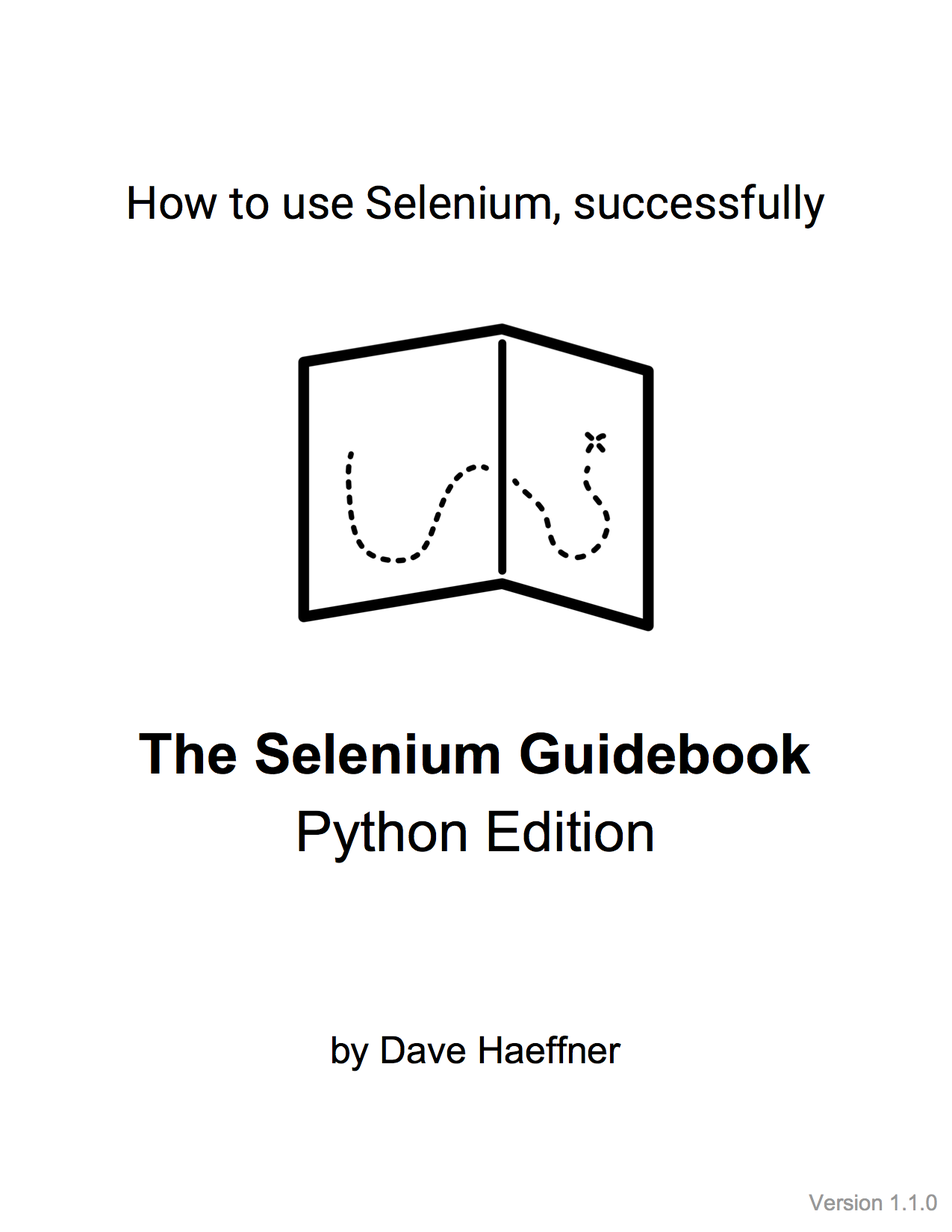
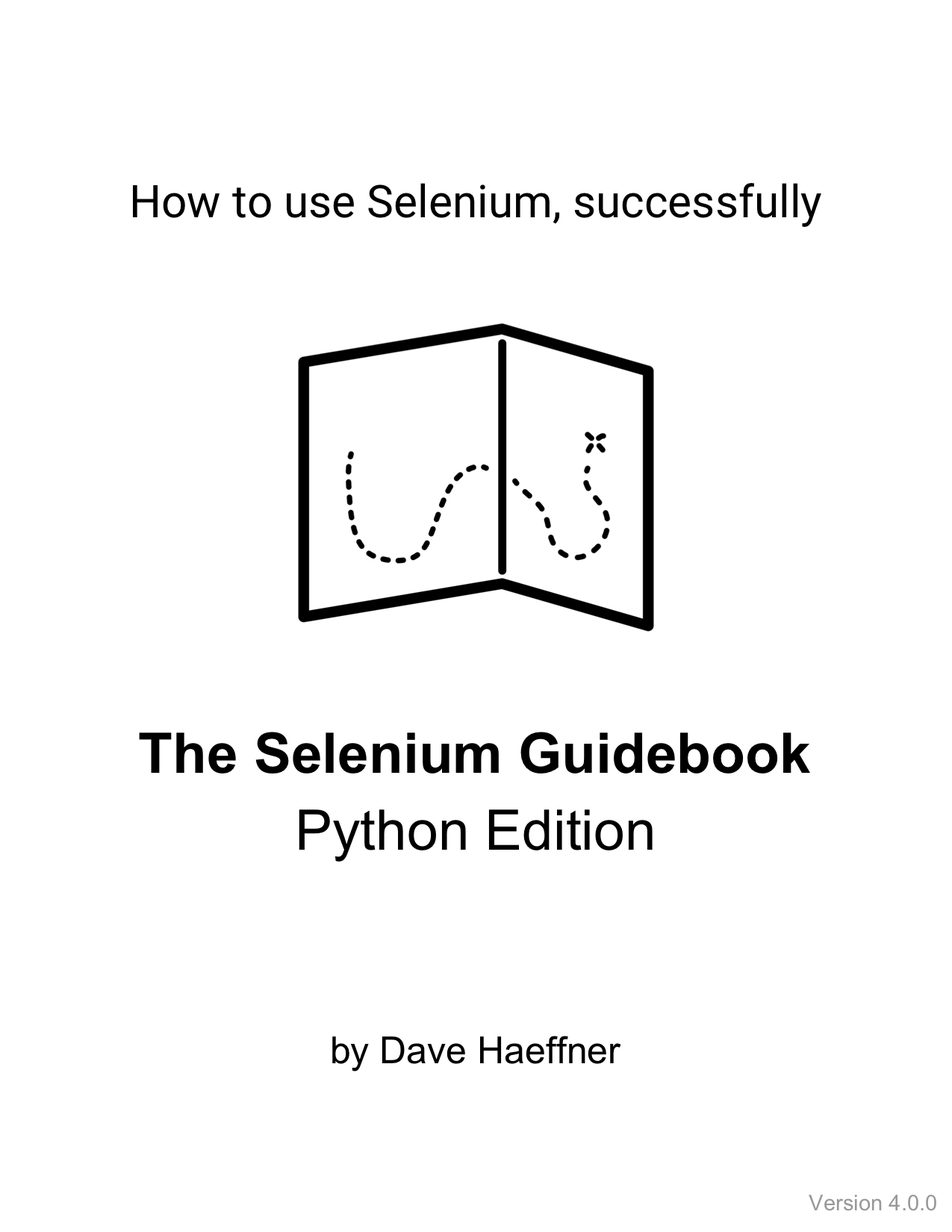
Updated front-matter in the Python book, along with the boilerplate chapters

diff --git a/book/python/content/chapters/17.md b/book/python/content/chapters/17.md
@@ -6,61 +6,53 @@ Here is a list breaking down a majority of the Selenium resources available, and
 
 ## Documentation & Tips
 
-+ [Selenium HQ](http://se.tips/se-info-1)
++ [Selenium HQ](http://bit.ly/se-info-1)
 
 This is the official Selenium project documentation site. It's a bit dated, but there is loads of helpful information here. You just have to get the hang of how the navigate site to find what you need.
 
-+ [The Selenium Wiki](http://se.tips/se-info-29)
++ [The Selenium Wiki](http://bit.ly/se-info-29)
 
 This is where all the good stuff is -- mainly, documentation about the various language bindings and browser drivers. If you're not already familiar with it, take a look.
 
-+ [Elemental Selenium Archives](http://se.tips/se-info-3)
++ [Elemental Selenium Archives](http://bit.ly/se-info-3)
 
-Every tip I've written is freely available on the tips archive page. There are over 70 different Selenium problems and solutions covered.
+Every tip I've written is freely available on the tips archive page. There are over 70 different Selenium problems and solutions covered. They're in Ruby, but the code has been open-sourced with a fair number of them being ported into other programming languages. You can find the code for them [here](https://github.com/tourdedave/elemental-selenium-tips).
 
 ## Blogs
 
-+ [The official Selenium blog](http://se.tips/se-info-4)
++ [The official Selenium blog](http://bit.ly/se-info-4)
 
 This is where news of the Selenium project gets announced, and there's also the occasional round-up of what's going on in the tech space (as it relates to testing). Definitely worth a look.
 
-+ [A list of "all" Selenium WebDriver blogs](http://se.tips/se-info-5)
++ [A list of "all" Selenium WebDriver blogs](http://bit.ly/se-info-5)
 
 At some point, someone rounded up a large list of blogs from Selenium practitioners and committers. It's a pretty good list.
 
 ## Other Books
 
-+ [Selenium 2 Testing Tools](http://se.tips/se-info-17)
++ [Selenium Testing Tools Cookbook](http://bit.ly/se-info-18)
 
-This book is by [David Burns](https://twitter.com/AutomatedTester) and it is a solid resource. It outlines how to use Selenium, top-to-bottom. It's definitely worth having on your shelf.
+This book outlines some great ways to leverage Selenium. It's clear that Gundecha has a very pragmatic approach that will yield great results.
 
-+ [Selenium Testing Tools Cookbook](http://se.tips/se-info-18)
-
-This is another good book outlining some great ways to leverage Selenium. While I haven't had a chance to finish reading it, it's clear that Gundecha has a very pragmatic approach that will yield great results.
-
-+ [Selenium Design Patterns and Best Practices](http://se.tips/se-info-21)
++ [Selenium Design Patterns and Best Practices](http://bit.ly/se-info-21)
 
 Dima Kovalenko's book covers useful tactics and strategies for successful test automation with Selenium. I was a technical reviewer for the book and think it's a tremendous resource. The book covers Ruby, but he has ported the examples to Java. You can find them [here](https://github.com/dimacus/SeleniumBestPracticesBook).
 
 ## Meetups
 
-+ [The Selenium Hangout](http://se.tips/se-info-12)
-
-This is an entirely online meetup that is run by me and [David Burns](https://twitter.com/AutomatedTester) where we talk about the latest in the Selenium community (e.g., upcoming conferences, the status of Selenium 3, the W3C spec, etc.) and answer questions from the community. Videos are recorded and made available (along with notes) on [the official Selenium blog](http://seleniumhq.wordpress.com/).
-
-+ [All Selenium Meetups listed on Meetup.com](http://se.tips/se-info-13)
++ [All Selenium Meetups listed on Meetup.com](http://bit.ly/se-info-13)
 
 A listing of all in-person Selenium Meetups are available on Meetup.com. If you're near a major city, odds are there's one waiting for you.
 
-+ [How to start your own Selenium Meetup](http://se.tips/se-info-14)
++ [How to start your own Selenium Meetup](https://saucelabs.com/blog/so-you-want-to-start-a-selenium-meetup-group-now-what)
 
 If there's not a Selenium Meetup near you, start one! Sauce Labs has a great write up on how to do it.
 
 ## Conferences
 
-+ [Selenium Conf](http://seleniumconf.co.uk/)
++ [Selenium Conf](http://seleniumconf.com/)
 
-This is the official annual conference of the Selenium project where practitioners and committers gather and share their latest knowledge and experiences with testing. The conference location changes every year (e.g., it's been in San Francisco, London, Boston, Bangalore, and soon -- Portland).
+This is the official conference of the Selenium project where practitioners and committers gather and share their latest knowledge and experiences with testing. There are two conferences a year, with the location changing every time (e.g., it's been in San Francisco, London, Boston, Bangalore, Portland, Austin, Berlin, Chicago, and Tokyo).
 
 + [Selenium Camp](http://seleniumcamp.com/)
 
@@ -72,26 +64,23 @@ A helpful website that lists all of the testing conferences out there.
 
 ## Videos
 
-+ [Selenium Conference Talks](http://se.tips/se-info-15)
++ [Selenium Conference Talks](http://bit.ly/se-info-15)
 
 All of the talks from The Selenium Conference are recorded and made freely available online. This is a tremendous resource.
 
-+ [Selenium Meetup Talks](http://se.tips/se-info-16)
++ [Selenium Meetup Talks](http://bit.ly/se-info-16)
 
 Some of the Selenium Meetups make it a point to record their talks and publish them afterwards. Here are some of them. They are a great way to see what other people are doing and pick up some new tips.
-
-+ [Selenium Hangout](http://www.youtube.com/playlist?list=PLjmE7QwH0u6dXyfzlZ10f2Yz6d3mE9QEi)
-
-All of the Selenium Hangout Meetups are recorded and made available. A lot of great stuff is discussed in them.
 
 ## Mailing Lists
 
 + [Selenium Developers List](https://groups.google.com/forum/#!forum/selenium-developers)
 
-This is where developers discuss changes to the Selenium project.
+This is where developers discuss changes to the Selenium project, both technically and administratively.
 
 + [Selenium Users Google Group](https://groups.google.com/forum/?fromgroups#!forum/selenium-users)
-+ [Selenium LinkedIn Users Group](http://www.linkedin.com/groups/Selenium-Test-Automation-User-Group-961927)
++ [Selenium LinkedIn Users Group](https://www.linkedin.com/groups/961927/)
+
 The signal to noise ratio in these groups can be challenging at times. But you can occasionally find some answers to your questions.
 
 ## Forums
@@ -106,68 +95,16 @@ These are the usual forums where you can go looking for answers to questions you
 
 + [Selenium Issue Tracker](https://github.com/seleniumhq/selenium/issues)
 
-If you're running into a specific and repeatable issue that just doesn't make sense, you may have found a bug in Selenium. You'll want to check the Selenium Issue Tracker to see if it has already been reported. If not, then create a new issue. But be sure to read [this post](http://jimevansmusic.blogspot.com/2012/12/not-providing-html-page-is-bogus.html) before you do (so you can be sure that you have provided enough information).
+If you're running into a specific and repeatable issue that just doesn't make sense, you may have found a bug in Selenium. You'll want to check the Selenium Issue Tracker to see if it has already been reported. If not, then create a new issue -- assuming you're able to provide a short and self-contained example that reproduces the problem.
 
-## Chatting With the Selenium Community on IRC
+This is known as [SSCCE](http://sscce.org) (a Short, Self Contained, Correct (Compilable), Example). For a tongue-in-cheek take on the topic, see [this post](http://jimevansmusic.blogspot.com/2012/12/not-providing-html-page-is-bogus.html).
 
-The Selenium IRC Chat Channel is arguably the best way to connect with the Selenium community and get questions answered. This is where committers and practitioners hang out day-in and day-out.
+## Chatting With the Selenium Community
 
-### Brief Intro To IRC
+The Selenium Chat Channel is arguably the best way to connect with the Selenium community and get questions answered. This is where committers and practitioners hang out day-in and day-out.
 
-IRC (short for Internet Relay Chat) is a protocol that freely enables live chatting (both in groups and person to person) and file sharing. It's been around for a while (circa 1988) and is the preferred mode of communication among certain tech circles.
+You can connect either through Slack or IRC. Details on how to connect are available [here](http://elementalselenium.com/tips/20-irc-chat).
 
-Within the realm of IRC there are numerous networks you can connect to. Each one containing people and bots logged in and joined to one or more chat rooms talking, sharing files, etc.
+Once connected, feel free to say hello and introduce yourself. But more importantly, ask your question. If it looks like no one is chatting, ask it anyway. Someone will see it and eventually respond. They always do. In order to get your answer, you'll probably need to hang around for a bit. But the benefit of being a fly on the wall is that you gain insight into other problems people face, possible solutions, and the current state of the Selenium project and its various pieces.
 
-One of the beautiful things about IRC is that there is no registration required to join the party. You just need to download a client that handles the IRC protocol (there's at least one available for every platform), point it at a network, and pick a unique nickname for yourself on that network.
 
-Once you're on you can join a chat room and start jib-jabbing.
-
-### How To Get Connected
-
-<u>Step 1: Get An IRC Chat Client</u>
-
-First thing's first, get a chat client that supports IRC.
-
-You may already have one and not even know. For example, [Adium](https://adium.im/) (for OSX) supports a staggering number of chat protocols. If you already have it (or something like it) then use that to connect. If you don't, then you'll need to download one that supports it (or one that is built specifically for IRC).
-
-Here are some worthwhile IRC chat clients (broken out by platform -- and are free unless otherwise noted).
-
-__OSX__
-
-+ [LimeChat](http://limechat.net/mac/)
-+ [Textual](http://www.codeux.com/textual/) ($5.99 to buy)
-
-__Windows__
-
-+ [mIRC](http://www.mirc.com/?/) (free for 30 days, $20 for a single-user license)
-
-__Linux__
-
-+ [Irssi](http://www.irssi.org/)
-
-__Web-only__
-
-+ [Webchat](http://webchat.freenode.net/)
-+ [IRCCloud](https://www.irccloud.com/) (free with paid tier as well, Android and iOS apps available as well)
-
-<u>Step 2: Connect To The Proper Server</u>
-
-The Selenium chat channel lives on the Freenode network. To connect to it directly you would use `irc.freenode.net`.
-
-Before connecting you should be able to set a nickname and perhaps even specify which channel you would like to connect to after connecting (e.g., `#selenium`). If you don't see these bits, don't sweat it. Connect and proceed to the next step.
-
-__NOTE: If you're using Webchat, it will automatically connect you to Freenode.__
-
-<u>Step 3: Join The Chat Channel</u>
-
-In IRC parlance channels are prepended with a `#` and are lower-case. So the Selenium channel is `#selenium`.
-
-If you were able to configure your chat client to join the channel for you, then proceed to the next step. Otherwise, you'll need to issue a command in the status window. There are a series of commands you can issue in IRC. They are all prepended with a `/`. To join a chat channel type `/join #selenium` and press `Enter`.
-
-This will open a new chat window to the Selenium chat channel. Woohoo!
-
-<u>Step 4: Talk And Hangout</u>
-
-Feel free to say hello and introduce yourself. But more importantly, ask your question. If it looks like no one is chatting, ask it anyway. Someone will see it and eventually respond. They always do.
-
-In order to get your answer, you'll probably need to hang around for a bit. But the benefit of being a fly on the wall is that you gain insight into other problems people face, possible solutions, and the current state of the Selenium project and its various pieces.

diff --git a/book/python/content/chapters/05.md b/book/python/content/chapters/05.md
@@ -14,24 +14,26 @@ Each test needs to be concise (e.g., testing a single feature rather than multip
 
 ## Grouping Tests
 
-As your test suite grows you will have numerous test files. Each one containing a grouping of tests that exercise similar functionality. These test files should be grouped together in a simple directory structure as the groupings become obvious. If you want to create a test run of disparate tests, this is something that is easy to handle when using a Test Runner (covered briefly below, and in-depth in Chapter 15).
+As your test suite grows you will have numerous test files. Each one containing a grouping of tests that exercise similar functionality. These test files should be grouped together in a simple directory structure as the groupings become obvious. If you want to create a test run of disparate tests, this is something that is easy to handle when using a Test Runner (covered briefly below, and in-depth in Chapter 16).
 
 ## Being Descriptive
 
-A test file should have a high level name that denotes what the tests within it are exercising. Each test should have an informative name (even if it is a bit verbose). Also, each test (or grouping of tests) should include some helpful metadata (e.g., Categories) which can provide additional information about the test as well as enable flexible test execution (more on that in Chapter 15). This way all or part of your test suite can be run, and the results will be informative thanks to helpful naming.
+A test file should have a high level name that denotes what the tests within it are exercising. Each test should have an informative name (even if it is a bit verbose). Also, each test (or grouping of tests) should include some helpful metadata (e.g., tags, or categories) which can provide additional information about the test as well as enable flexible test execution (more on that in Chapter 16). This way all or part of your test suite can be run, and the results will be informative thanks to helpful naming.
 
-This enables developers to run a subset of tests to exercise functionality they just modified (as part of their pre-check-in testing) while also enabling you to intelligently wire your test suite up to a Continuous Integration (CI) server for fast and dynamic feedback (more on CI servers in Chapter 16).
+This enables developers to run a subset of tests to exercise functionality they just modified while also enabling you to intelligently wire your test suite up to a Continuous Integration (CI) server for fast and dynamic feedback (more on CI servers in Chapter 17).
 
 ## Test Runners
 
-At the heart of every test harness is some kind of a test runner that does a lot of the heavy lifting (e.g., test execution, centralized configuration, test output, etc.). Rather than reinvent the wheel you can use one of the many test runners that already exist today. With it you can bolt on third party libraries to extend its functionality if there's something missing.
+At the heart of every test harness is some kind of a test runner that does a lot of the heavy lifting (e.g., test execution, centralized configuration, test output, etc.). Rather than reinvent the wheel you can use one of the many test runners that exist today. With it you can bolt on third party libraries to extend its functionality if there's something missing.
 
 ## Version Control
 
-In order to effectively collaborate with other testers and developers on your team, your test code must live in a version control system of some sort. Look to see what your development team uses and add your code to it. Otherwise, set up one of the following:
+In order to effectively collaborate with other testers and developers on your team, your test code must live in a version control system. Look to see what your development team uses and add your code to it. Otherwise, set up one of the following:
 
 + [Git](http://git-scm.com/)
 + [Mercurial](https://www.mercurial-scm.org/)
 + [Subversion](http://subversion.apache.org/)
 
 Keep in mind that your test code can live in a __separate__ repository from the code of the application you're testing. Combining them may be advantageous but if all you're doing is writing and running tests against web endpoints (which is a majority of what your Selenium tests will be doing) then leaving your test code in a separate repository is a fine way to go.
+
+

diff --git a/book/python/content/preface.md b/book/python/content/preface.md
@@ -2,15 +2,15 @@
 
 This book is not a full and comprehensive treatise that outlines every possible permutation of [Selenium](http://seleniumhq.org/) (the open-source software test automation tool for web applications). There are other books that already do this. My goal, instead, is to teach you the necessary pieces to use Selenium __successfully__ for your circumstance.
 
-What you have before you is a distilled and actionable guide culled from my consulting practice and full time positions held doing Quality Assurance over the past seven years.
+What you have before you is a distilled and actionable guide culled from my consulting practice and full time positions held doing Quality Assurance over the past ten years.
 
 My goal in writing this is to provide you with the materials I wish existed when I was starting out with automated acceptance testing. I hope it serves you well.
 
 ## What This Book Will Cover
 
-This book focuses on the latest stable version of Selenium 2 (a.k.a. Selenium WebDriver) and its use to test desktop browsers. Its predecessor, Selenium RC, will not be covered. Mobile testing with Appium will also not be covered. But you can see a series of getting started with Appium posts I've written [here](https://saucelabs.com/resources/articles/appium-bootcamp-chapter-1).
+This book focuses on the latest stable version of Selenium 4 (a.k.a. Selenium WebDriver) and its use to test desktop browsers.
 
-Record and Playback tools like Selenium IDE and Selenium Builder are great for getting started, but abysmal for growing past that point. So they will not be covered. Instead, an approach on writing well factored tests, in code, will be the primary focus of this book.
+Record and Playback tools like [Selenium IDE](https://www.seleniumhq.org/selenium-ide/) are a great option nowadays (no, really). But they will not be covered in this book. Instead, an approach of writing well factored tests, in code, is the focus of this book.
 
 ## Who This Book Is For
 
@@ -20,11 +20,11 @@ That is to say, this book is for anyone who wants to use computers for what they
 
 ## About The Examples In This Book
 
-The examples in this book are written in Python, but the strategies and patterns used are applicable regardless of your technical stack.
+The examples in this book are written in JavaScript, but the strategies and patterns used are applicable regardless of your technical stack.
 
 The tests in this book are written to exercise functionality from an open-source project I created and maintain called the-internet -- available [here on GitHub](https://github.com/tourdedave/the-internet) and viewable [here on Heroku](http://the-internet.herokuapp.com/).
 
-The test examples are written to run against [pytest](http://docs.pytest.org/en/latest/) with [pip](https://pip.pypa.io/en/stable/) managing the third-party dependencies.
+The test examples are written to run against [pytest](http://docs.pytest.org/en/latest/) with [pip3](https://pip.pypa.io/en/stable/) managing the third-party dependencies.
 
 All of the code examples from the book are available in an accompanying zip file. It contains folders for each chapter where code was written or altered. Chapters with multiple parts will have multiple sub-folders (e.g., code examples referenced in Part 2 of Chapter 9 can be found in `09/02/` in the zip file).
 

diff --git a/book/python/content/chapters/02.md b/book/python/content/chapters/02.md
@@ -15,7 +15,7 @@ This strategy works best for applications with existing functionality and does n
 
 ## What To Do With The Answers
 
-After answering these you should end up with a prioritized punch list (a.k.a., backlog) of test automation tasks that you can work off of and track progress against.
+After answering these questions you should end up with a prioritized punch list (a.k.a., backlog) of test automation tasks that you can work off of and track progress against.
 
 ### Question 1: Money/Value
 
@@ -25,7 +25,7 @@ These items will be your highest priority for automation. Start an automation ba
 
 ### Question 2: Usage Data
 
-Odds are your application offers a robust set of functionality well beyond your funnel. Your answers to this question will help highlight what it is. And if you're basing these answers on usage data (e.g., Google Analytics), then it will be broken down from highly used to lightly used.
+Odds are your application offers a robust set of functionality well beyond your funnel. Your answers to this question will help highlight what it is. And if you're basing these answers on usage data (e.g., Google Analytics, etc.), then it will be broken down from highly used to lightly used.
 
 Tack these items onto your automation backlog (below the items from question #1) based on their frequency of use.
 
@@ -39,10 +39,12 @@ Note the top 2 (or 3 depending on your numbers), but focus on the top 1 for now.
 
 To round out the strategy it is also best to think about what things have broken in the application before. To answer this question it's best to check your defect/bug tracker (if you have one) and to ask your team. What you end up with may read like a laundry list of browser specific issues or functionality that has been flaky or forgotten about in the past. But it's all useful information.
 
-Be sure to check this list against your automation backlog. If somethings not there, add it to the bottom of the backlog. If it is there, make a note in the backlog item that it has been an issue in the past.
+Be sure to check this list against your automation backlog. If something's not there, add it to the bottom of the backlog. If it is there, make a note in the backlog item that it has been an issue in the past.
 
 If the issue has happened numerous times and has the potential to occur again, move the item up in the backlog. And if issues keep cropping up that are related to a specific browser, compare this browser to your short list of browsers from question #3. If it's a browser that's not in your list but it's still important (e.g., a small pocket of influential users), track it on the backlog, but put it at the bottom.
 
 ## Now You Are Ready
 
 Having answered these questions, you should now have a prioritized backlog of critical business functionality, a short list of browsers to focus on, and an understanding of the risky parts of your application to watch out for. With it, you're on the right track -- focusing on things that matter for your business and its users.
+
+

diff --git a/book/python/content/chapters/01.md b/book/python/content/chapters/01.md
@@ -12,8 +12,10 @@ It's less ideal for checking lower-level functionality like HTTP status codes or
 
 ## Selenium Highlights
 
-Selenium works on every major browser, with a number of major programming languages, and on every major operating system. Each language binding and browser are actively being developed to stay current. Yes, even Internet Explorer (thanks to [Jim Evans](https://twitter.com/jimevansmusic)!). And more recently the Selenium project has seen official support [from Microsoft for their Edge browser](https://blogs.windows.com/msedgedev/2015/07/23/bringing-automated-testing-to-microsoft-edge-through-webdriver/#DkIEUSOxbQpfruhz.97) and [from Apple with the latest version of Safari](https://webkit.org/blog/6900/webdriver-support-in-safari-10/).
+Selenium works on every major browser, in every major programming language, and on every major operating system. Each language binding and browser are actively being developed to stay current. Yes, even Internet Explorer (thanks to [Jim Evans](https://twitter.com/jimevansmusic)!). And WebDriver (the thing which drivers Selenium) has become [a W3C specification](https://www.w3.org/TR/webdriver1/).
 
-Selenium can be run on your local computer, on a server (with Selenium Remote), on your own set of servers (with Selenium Grid), or on a third-party cloud provider (like [Sauce Labs](http://saucelabs.com/)). As your test suite grows, your test runs will take longer to complete. To speed them up you will want to run them in parallel, which is where the benefit of having your own servers or using a cloud provider comes in -- that, and the ability to have numerous browser and operating system combinations to run your tests on.
+Selenium can be run on your local computer, on a remote server, on a set of servers (with Selenium Grid), or on a third-party cloud provider (like [Sauce Labs](http://saucelabs.com/)). As your test suite grows, your test runs will take longer to complete. To speed them up you will want to run them in parallel, which is where the benefit of having your own servers or using a cloud provider comes in -- that, and the ability to have numerous browser and operating system combinations to run your tests on.
 
-One of the guiding philosophies of Selenium is to be able to write your tests once and run them across multiple browsers. While this is a rosy proposition, it's not entirely accurate. There are plenty of gotchas to watch out for when you get into it. But don't worry, We'll step through these in detail throughout the book.
+One of the guiding philosophies of Selenium is to be able to write your tests once and run them across multiple browsers. While this is a rosy proposition, it's not entirely accurate. There are some gotchas to watch out for when you get into it. But don't worry, We'll step through these in detail throughout the book.
+
+

diff --git a/book/python/content/chapters/03.md b/book/python/content/chapters/03.md
@@ -1,6 +1,6 @@
 # Picking A Language
 
-In order to work well with Selenium you need to choose a programming language to write your automated acceptance tests in. Conventional wisdom will tell you to choose the same language that the application is written in. That way if you get stuck you can ask the developers on your team for help. But if you're not proficient in this language (or new to programming), then your progress will be slow and you'll likely end up asking for more developer help than they have time for -- hindering your automation efforts and setting you up for failure.
+In order to work well with Selenium you need to choose a programming language to write your automated acceptance tests in. Conventional wisdom will tell you to choose the same language that the application is written in. That way if you get stuck you can ask the developers on your team for help. But if you're not proficient in this language (or new to programming), then your progress will be slow and you'll likely end up asking for more of a developer's help than they have time for -- hindering your automation efforts and setting you up for failure.
 
 A great way to determine which language to go with is to answer one simple question: __Who will own the automated tests?__
 
@@ -22,7 +22,7 @@ You can find a list of open source Selenium WebDriver frameworks and their respe
 
 ## Outro
 
-Choosing a programming language for automated testing is not a decision that should be taken lightly. If you're just starting out (or looking to port your tests) then considering and discussing these things will help position you for long term success.
+Choosing a programming language for automated testing is not a decision that should be taken lightly. If you're just starting out then considering and discussing these things will help position you for long term success.
 
-With all that being said, the rest of this book will show you how to build your own test harness (in addition to writing well factored tests) in Python with [pytest](http://pytest.org/latest/).
+With all that being said, the rest of this book will show you how to build your own test harness (in addition to writing well factored tests) in [Python 3](https://www.python.org/downloads/) with [pytest](http://pytest.org/latest/).
 

diff --git a/book/python/content/acknowledgements.md b/book/python/content/acknowledgements.md
@@ -4,7 +4,7 @@ A huge thanks to [Unmesh Gundecha](https://twitter.com/upgundecha) and [Peter Bi
 
 Unmesh's work was a big help and an inspiration when it finally came time for me to write a Python edition of my book. His book titled "[Learning Selenium Testing Tools with Python](https://www.amazon.com/Learning-Selenium-Testing-Tools-Python/dp/1783983507/ref=mt_paperback?_encoding=UTF8&me=)" is a great resource and I highly recommend it if you are looking to use `unittest` in your Selenium practice.
 
-Peter provided a tremendous amount of feedback to me about the code examples in this book. He recommended ways I could strive to make many of the examples more Python-like, readable, and resilient. Thank you Peter! The book is better because of your input.
+Peter provided a tremendous amount of feedback to me about the code examples in the first edition of this book. He recommended ways I could strive to make many of the examples more idiomatic, readable, and resilient. Thank you Peter! The book is still better off because of your input.
 
 
 Cheers,  
